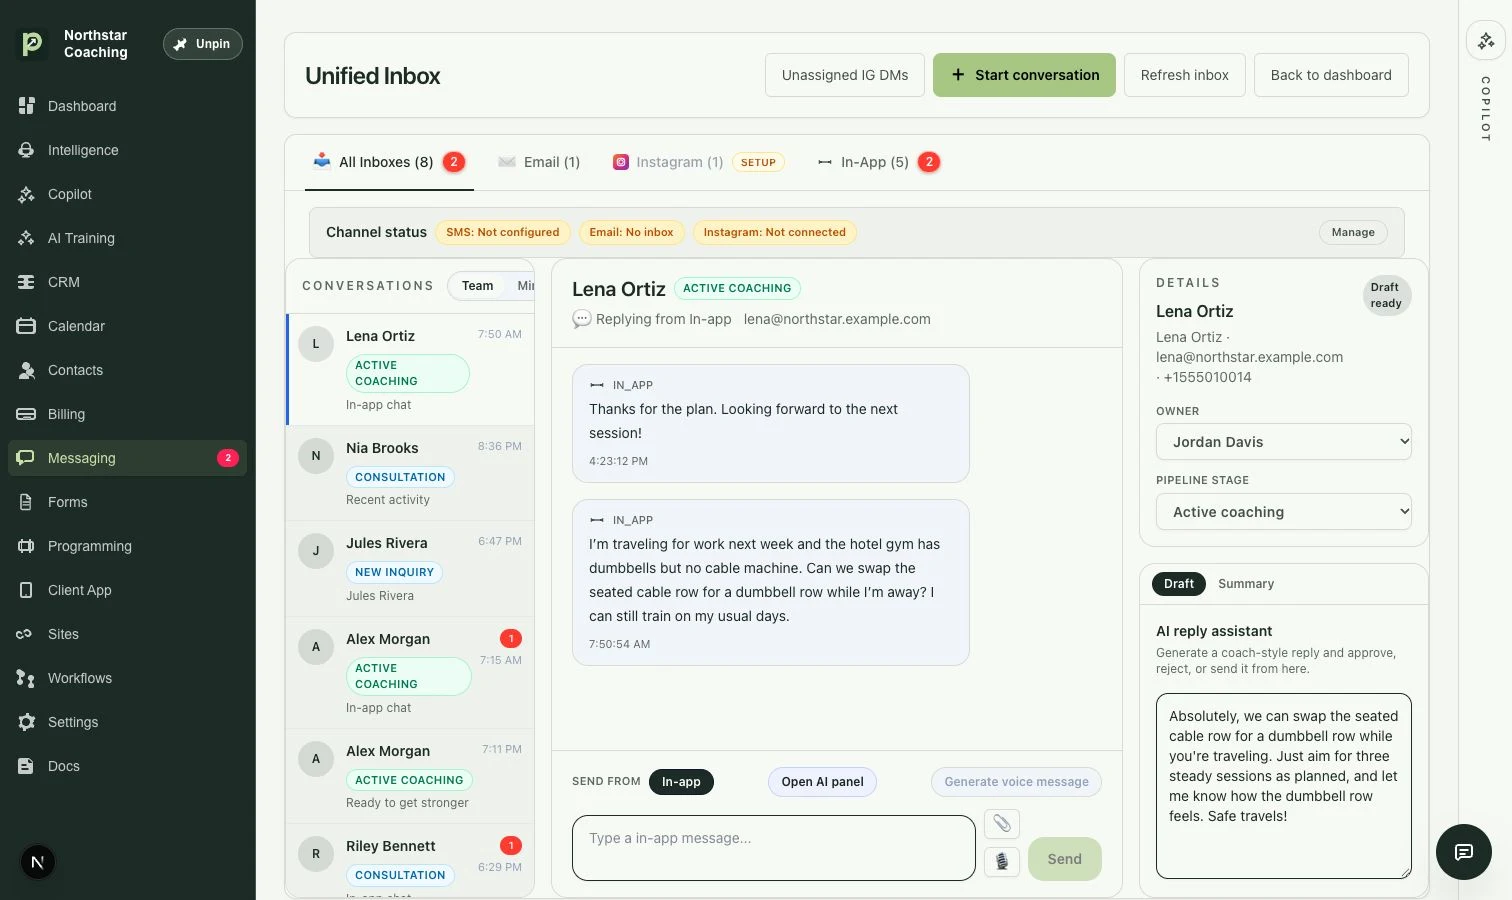
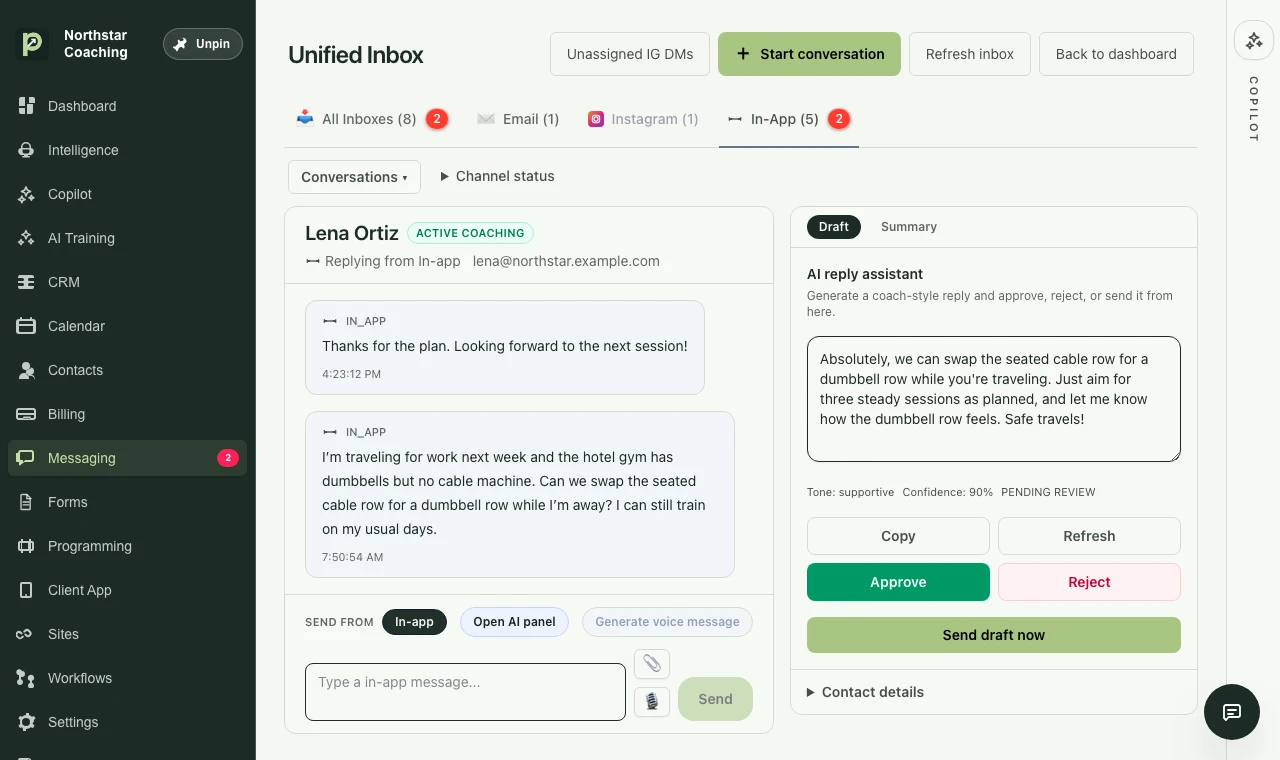
Simplify the inbox and billing showcase and finish the site walkthrough

diff --git a/powerstrong.html b/powerstrong.html
@@ -8,7 +8,7 @@
 <meta property="og:description" content="One connected coaching platform. An independent full-stack build by Branden Nevius.">
 <meta property="og:image" content="https://brandennevius.github.io/assets/powerstrong/workspace-next-action.webp?v=20261125-unread">
 <meta property="og:type" content="website"><meta name="theme-color" content="#192e25">
-<link rel="stylesheet" href="powerstrong.css?v=20261125-product-tour"><script src="powerstrong.js?v=20261124-caption" defer></script>
+<link rel="stylesheet" href="powerstrong.css?v=20261125-engineering-gap"><script src="powerstrong.js?v=20261124-caption" defer></script>
 </head>
 <body>
 <a class="skip" href="#main">Skip to content</a>
@@ -61,14 +61,14 @@
   <div class="tour-panel" role="tabpanel" id="panel-conversations" aria-labelledby="tab-conversations" tabindex="0" hidden>
     <div class="tour-copy"><h3>From Instagram inquiry to reply draft</h3><p>Jules asks about coaching in an Instagram DM. The inbox shows the original message and an editable consultation reply. The coach can also review the same thread from Jules’s contact record.</p></div>
     <div class="tour-frames">
-      <figure><button class="capture" data-zoom aria-label="Enlarge Unified Inbox"><img src="assets/powerstrong/inbox-instagram-clean.webp" width="1280" height="720" alt="Unified Inbox showing Jules Rivera’s Instagram inquiry and consultation reply draft" loading="lazy"></button><figcaption>Unified Inbox · Open the inbound Instagram inquiry.</figcaption></figure>
+      <figure><button class="capture" data-zoom aria-label="Enlarge Unified Inbox"><img src="assets/powerstrong/inbox-instagram-clean.webp?v=20261125-showcase-refresh" width="1280" height="760" alt="Unified Inbox showing Jules Rivera’s Instagram inquiry and consultation reply draft" loading="lazy"></button><figcaption>Unified Inbox · Open the inbound Instagram inquiry.</figcaption></figure>
       <figure><button class="capture" data-zoom aria-label="Enlarge Contact messages"><img src="assets/powerstrong/tour-instagram-contact.webp?v=20261125-layout" width="1280" height="720" alt="Jules Rivera’s contact messages showing the Instagram thread and draft review controls" loading="lazy"></button><figcaption>Contact messages · Review and approve the reply draft before sending.</figcaption></figure>
     </div>
   </div>
   <div class="tour-panel" role="tabpanel" id="panel-payments" aria-labelledby="tab-payments" tabindex="0" hidden>
     <div class="tour-copy"><h3>From a saved offer to checkout</h3><p>Coaches save a reusable offer in Billing and generate a checkout link. The Strength Reset example shows the saved package and the matching $199 monthly subscription in Stripe test checkout.</p></div>
     <div class="tour-frames">
-      <figure><button class="capture" data-zoom aria-label="Enlarge Billing"><img src="assets/powerstrong/agent-offer-saved.webp" width="1280" height="720" alt="Strength Reset offer saved in PowerStrongAI Billing" loading="lazy"></button><figcaption>Billing · Create and save the recurring offer.</figcaption></figure>
+      <figure><button class="capture" data-zoom aria-label="Enlarge Billing"><img src="assets/powerstrong/agent-offer-saved.webp?v=20261125-showcase-refresh" width="1440" height="840" alt="Strength Reset offer saved in PowerStrongAI Billing" loading="lazy"></button><figcaption>Billing · The saved offer is ready for a checkout link.</figcaption></figure>
       <figure><button class="capture" data-zoom aria-label="Enlarge Checkout"><img src="assets/powerstrong/agent-offer-checkout.webp" width="1280" height="720" alt="Stripe test checkout for the same Strength Reset subscription" loading="lazy"></button><figcaption>Checkout · Open the link generated for that offer.</figcaption></figure>
     </div>
   </div>
@@ -89,8 +89,8 @@
   <div class="tour-panel" role="tabpanel" id="panel-sites" aria-labelledby="tab-sites" tabindex="0" hidden>
     <div class="tour-copy"><h3>Publish a page that leads to intake</h3><p>Build a landing page with the site editor, then publish it with a button that opens the coaching intake. Northstar uses its landing page to explain the service and give prospects a clear next step.</p></div>
     <div class="tour-frames">
-      <figure><button class="capture" data-zoom aria-label="Enlarge Sites editor"><img src="assets/powerstrong/tour-site-editor.webp?v=20261125-layout" width="1280" height="720" alt="Northstar coaching landing page open in the Sites editor" loading="lazy"></button><figcaption>Sites editor · Set the page content, styling, and publishing options.</figcaption></figure>
-      <figure><button class="capture" data-zoom aria-label="Enlarge Published page"><img src="assets/powerstrong/tour-site-public.webp" width="1280" height="720" alt="Published Northstar coaching landing page with a button to open the intake form" loading="lazy"></button><figcaption>Published page · Give prospects a direct link to the intake.</figcaption></figure>
+      <figure><button class="capture" data-zoom aria-label="Enlarge Sites editor"><img src="assets/powerstrong/tour-site-editor.webp?v=20261125-showcase-refresh" width="1280" height="760" alt="Northstar coaching landing page open in the Sites editor" loading="lazy"></button><figcaption>Sites editor · Set the page content, styling, and publishing options.</figcaption></figure>
+      <figure><button class="capture" data-zoom aria-label="Enlarge Published page"><img src="assets/powerstrong/tour-site-public.webp?v=20261125-showcase-refresh" width="1280" height="900" alt="Published Northstar coaching landing page with a button to open the intake form" loading="lazy"></button><figcaption>Published page · Prospects can review the coaching offer and open the intake.</figcaption></figure>
     </div>
   </div>
   <div class="tour-panel" role="tabpanel" id="panel-forms" aria-labelledby="tab-forms" tabindex="0" hidden>
@@ -110,7 +110,7 @@
   <ol class="image-flow">
     <li class="flow-stage" id="flow-draft-1">
       <header class="flow-stage-heading"><span class="flow-number">01</span><div><h4>Draft a reply from the inbound message</h4><p>Lena’s hotel gym has no cable machine. Reply Assistant reads her message and drafts a response that addresses the equipment change.</p></div></header>
-      <figure class="flow-frame"><button class="capture" data-zoom aria-label="Enlarge Draft a reply from the inbound message"><img src="assets/powerstrong/action-client-inbox.webp" width="1512" height="900" alt="Lena Ortiz’s inbound travel message alongside an editable reply draft in the Unified Inbox." loading="lazy"></button><figcaption>Unified Inbox · Lena’s message and the saved reply draft.</figcaption></figure>
+      <figure class="flow-frame"><button class="capture" data-zoom aria-label="Enlarge Draft a reply from the inbound message"><img src="assets/powerstrong/action-client-inbox.webp?v=20261125-showcase-refresh" width="1280" height="760" alt="Lena Ortiz’s inbound travel message alongside an editable reply draft in the Unified Inbox." loading="lazy"></button><figcaption>Unified Inbox · Lena’s message and the saved reply draft.</figcaption></figure>
       <details class="flow-transcript"><summary>Read the message and draft</summary><div><p class="transcript-label">Lena’s message</p><blockquote>I’m traveling for work next week and the hotel gym has dumbbells but no cable machine. Can we swap the seated cable row for a dumbbell row while I’m away? I can still train on my usual days.</blockquote><p class="transcript-label">Reply Assistant draft</p><blockquote>Absolutely, we can swap the seated cable row for a dumbbell row while you&#x27;re traveling. Just aim for three steady sessions as planned, and let me know how the dumbbell row feels. Safe travels!</blockquote></div></details>
       <div class="flow-connector"><span class="connector-stem" aria-hidden="true"></span><p>Programming review uses the same message and Lena’s active plan</p><span class="connector-arrow" aria-hidden="true">↓</span></div>
     </li>
@@ -126,9 +126,9 @@ Review and approve the task draft to create it.</blockquote></div></details><div
 Description: Three strength sessions per week with a weekly coach check-in.
 Prepare it for coach review.</blockquote><p class="transcript-label">Copilot’s reply</p><blockquote>Prepared offer draft.
 Strength Reset — $199/month.
-Review and approve the package draft to create it.</blockquote></div></details><div class="flow-connector"><span class="connector-stem" aria-hidden="true"></span><p>Coach reviews and approves</p><span class="connector-arrow" aria-hidden="true">↓</span></div></li><li class="flow-stage" id="flow-offer-2"><header class="flow-stage-heading"><span class="flow-number">02</span><div><h4>The offer is saved in Billing</h4><p>Approval creates the package and its Stripe test product and recurring price.</p></div></header><figure class="flow-frame"><div class="flow-frame-top"><span class="flow-dots" aria-hidden="true"><i></i><i></i><i></i></span><span>BILLING / SAVED PACKAGE</span><span class="flow-capture-label">Actual application</span></div><button class="capture" data-zoom aria-label="Enlarge create an offer step 2"><img src="assets/powerstrong/agent-offer-saved.webp" width="1280" height="720" alt="Active monthly package · Actual Stripe test price · Persisted after reload." loading="lazy"></button><figcaption>Active monthly package · Actual Stripe test price · Persisted after reload.</figcaption></figure><div class="flow-connector"><span class="connector-stem" aria-hidden="true"></span><p>Coach generates the checkout link in Billing</p><span class="connector-arrow" aria-hidden="true">↓</span></div></li><li class="flow-stage" id="flow-offer-3"><header class="flow-stage-heading"><span class="flow-number">03</span><div><h4>The checkout is ready</h4><p>The client reaches a hosted checkout with the same offer and monthly price.</p></div></header><figure class="flow-frame"><div class="flow-frame-top"><span class="flow-dots" aria-hidden="true"><i></i><i></i><i></i></span><span>STRIPE / SANDBOX CHECKOUT</span><span class="flow-capture-label">Actual application</span></div><button class="capture" data-zoom aria-label="Enlarge create an offer step 3"><img src="assets/powerstrong/agent-offer-checkout.webp" width="1280" height="720" alt="Strength Reset · $199/month · Open, unpaid test checkout. No payment submitted." loading="lazy"></button><figcaption>Strength Reset · $199/month · Open, unpaid test checkout. No payment submitted.</figcaption></figure></li></ol></div><div class="agent-story" role="tabpanel" id="panel-agent-site" aria-labelledby="tab-agent-site" tabindex="0" hidden>
-  <div class="flow-intro"><h3>A coaching offer becomes an editable landing page.</h3></div>
-  <nav class="flow-map" aria-label="Steps in this example"><a href="#flow-site-1"><span>01</span>Review the proposal</a><span class="map-arrow" aria-hidden="true">→</span><a href="#flow-site-2"><span>02</span>Open the draft</a></nav>
+Review and approve the package draft to create it.</blockquote></div></details><div class="flow-connector"><span class="connector-stem" aria-hidden="true"></span><p>Coach reviews and approves</p><span class="connector-arrow" aria-hidden="true">↓</span></div></li><li class="flow-stage" id="flow-offer-2"><header class="flow-stage-heading"><span class="flow-number">02</span><div><h4>The offer is saved in Billing</h4><p>Approval creates the package and its Stripe test product and recurring price.</p></div></header><figure class="flow-frame"><div class="flow-frame-top"><span class="flow-dots" aria-hidden="true"><i></i><i></i><i></i></span><span>BILLING / SAVED PACKAGE</span><span class="flow-capture-label">Actual application</span></div><button class="capture" data-zoom aria-label="Enlarge create an offer step 2"><img src="assets/powerstrong/agent-offer-saved.webp?v=20261125-showcase-refresh" width="1440" height="840" alt="Active monthly package · Actual Stripe test price · Persisted after reload." loading="lazy"></button><figcaption>Active monthly package · Actual Stripe test price · Persisted after reload.</figcaption></figure><div class="flow-connector"><span class="connector-stem" aria-hidden="true"></span><p>Coach generates the checkout link in Billing</p><span class="connector-arrow" aria-hidden="true">↓</span></div></li><li class="flow-stage" id="flow-offer-3"><header class="flow-stage-heading"><span class="flow-number">03</span><div><h4>The checkout is ready</h4><p>The client reaches a hosted checkout with the same offer and monthly price.</p></div></header><figure class="flow-frame"><div class="flow-frame-top"><span class="flow-dots" aria-hidden="true"><i></i><i></i><i></i></span><span>STRIPE / SANDBOX CHECKOUT</span><span class="flow-capture-label">Actual application</span></div><button class="capture" data-zoom aria-label="Enlarge create an offer step 3"><img src="assets/powerstrong/agent-offer-checkout.webp" width="1280" height="720" alt="Strength Reset · $199/month · Open, unpaid test checkout. No payment submitted." loading="lazy"></button><figcaption>Strength Reset · $199/month · Open, unpaid test checkout. No payment submitted.</figcaption></figure></li></ol></div><div class="agent-story" role="tabpanel" id="panel-agent-site" aria-labelledby="tab-agent-site" tabindex="0" hidden>
+  <div class="flow-intro"><h3>Build and publish a coaching landing page.</h3></div>
+  <nav class="flow-map" aria-label="Steps in this example"><a href="#flow-site-1"><span>01</span>Review the proposal</a><span class="map-arrow" aria-hidden="true">→</span><a href="#flow-site-2"><span>02</span>Open the draft</a><span class="map-arrow" aria-hidden="true">→</span><a href="#flow-site-3"><span>03</span>View the finished page</a></nav>
   <ol class="image-flow">
     <li class="flow-stage" id="flow-site-1">
       <header class="flow-stage-heading"><span class="flow-number">01</span><div><h4>Give Copilot the page brief</h4><p>Tell Copilot who the page is for, what the offer includes, and what visitors should do next. Copilot prepares a proposal for the coach to review.</p></div></header>
@@ -141,6 +141,11 @@ Review and approve the draft to create it in Sites.</blockquote></div></details>
     <li class="flow-stage" id="flow-site-2">
       <header class="flow-stage-heading"><span class="flow-number">02</span><div><h4>Edit the page in Sites</h4><p>Approval creates a draft in Sites. The coach can revise the generated blocks and preview the page before publishing.</p></div></header>
       <figure class="flow-frame"><button class="capture" data-zoom aria-label="Enlarge Edit the page in Sites"><img src="assets/powerstrong/action-site-editor.webp?v=20261125-result" width="1280" height="720" alt="Sites editor showing the generated Strength Reset headline and subheading." loading="lazy"></button><figcaption>Sites · Editable Strength Reset page draft.</figcaption></figure>
+      <div class="flow-connector"><span class="connector-stem" aria-hidden="true"></span><p>The coach edits the draft and publishes the page</p><span class="connector-arrow" aria-hidden="true">↓</span></div>
+    </li>
+    <li class="flow-stage" id="flow-site-3">
+      <header class="flow-stage-heading"><span class="flow-number">03</span><div><h4>View the finished page</h4><p>Prospects see the price, what’s included, and where to apply.</p></div></header>
+      <figure class="flow-frame"><button class="capture" data-zoom aria-label="Enlarge the finished Strength Reset landing page"><img src="assets/powerstrong/action-site-published.webp?v=20261125-showcase-refresh" width="1280" height="900" alt="Published Strength Reset coaching page with pricing, training photo, offer details, and an intake button." loading="lazy"></button><figcaption>Strength Reset · Published page with a link to the coaching intake.</figcaption></figure>
     </li>
   </ol>
 </div>

diff --git a/powerstrong.css b/powerstrong.css
@@ -76,8 +76,17 @@
 }
 .engineering-intro p { margin: 10px 0 0; }
 .engineering-intro p, .engineering-link p { color: var(--muted); line-height: 1.65; }
-.engineering-link { padding-block: 50px; }
-.engineering-link p { margin-bottom: 20px; }
+.engineering-link {
+  display: flex;
+  flex-wrap: wrap;
+  align-items: center;
+  gap: 24px 40px;
+  padding-block: clamp(36px, 5vw, 60px);
+}
+
+@media (max-width: 540px) {
+  .engineering-link { flex-direction: column; align-items: flex-start; }
+}
 
 .engineering-page .browser-testing { max-width: none; }
 .browser-testing h2 { font-size: clamp(1.8rem, 4vw, 2.65rem); margin-bottom: 28px; }
